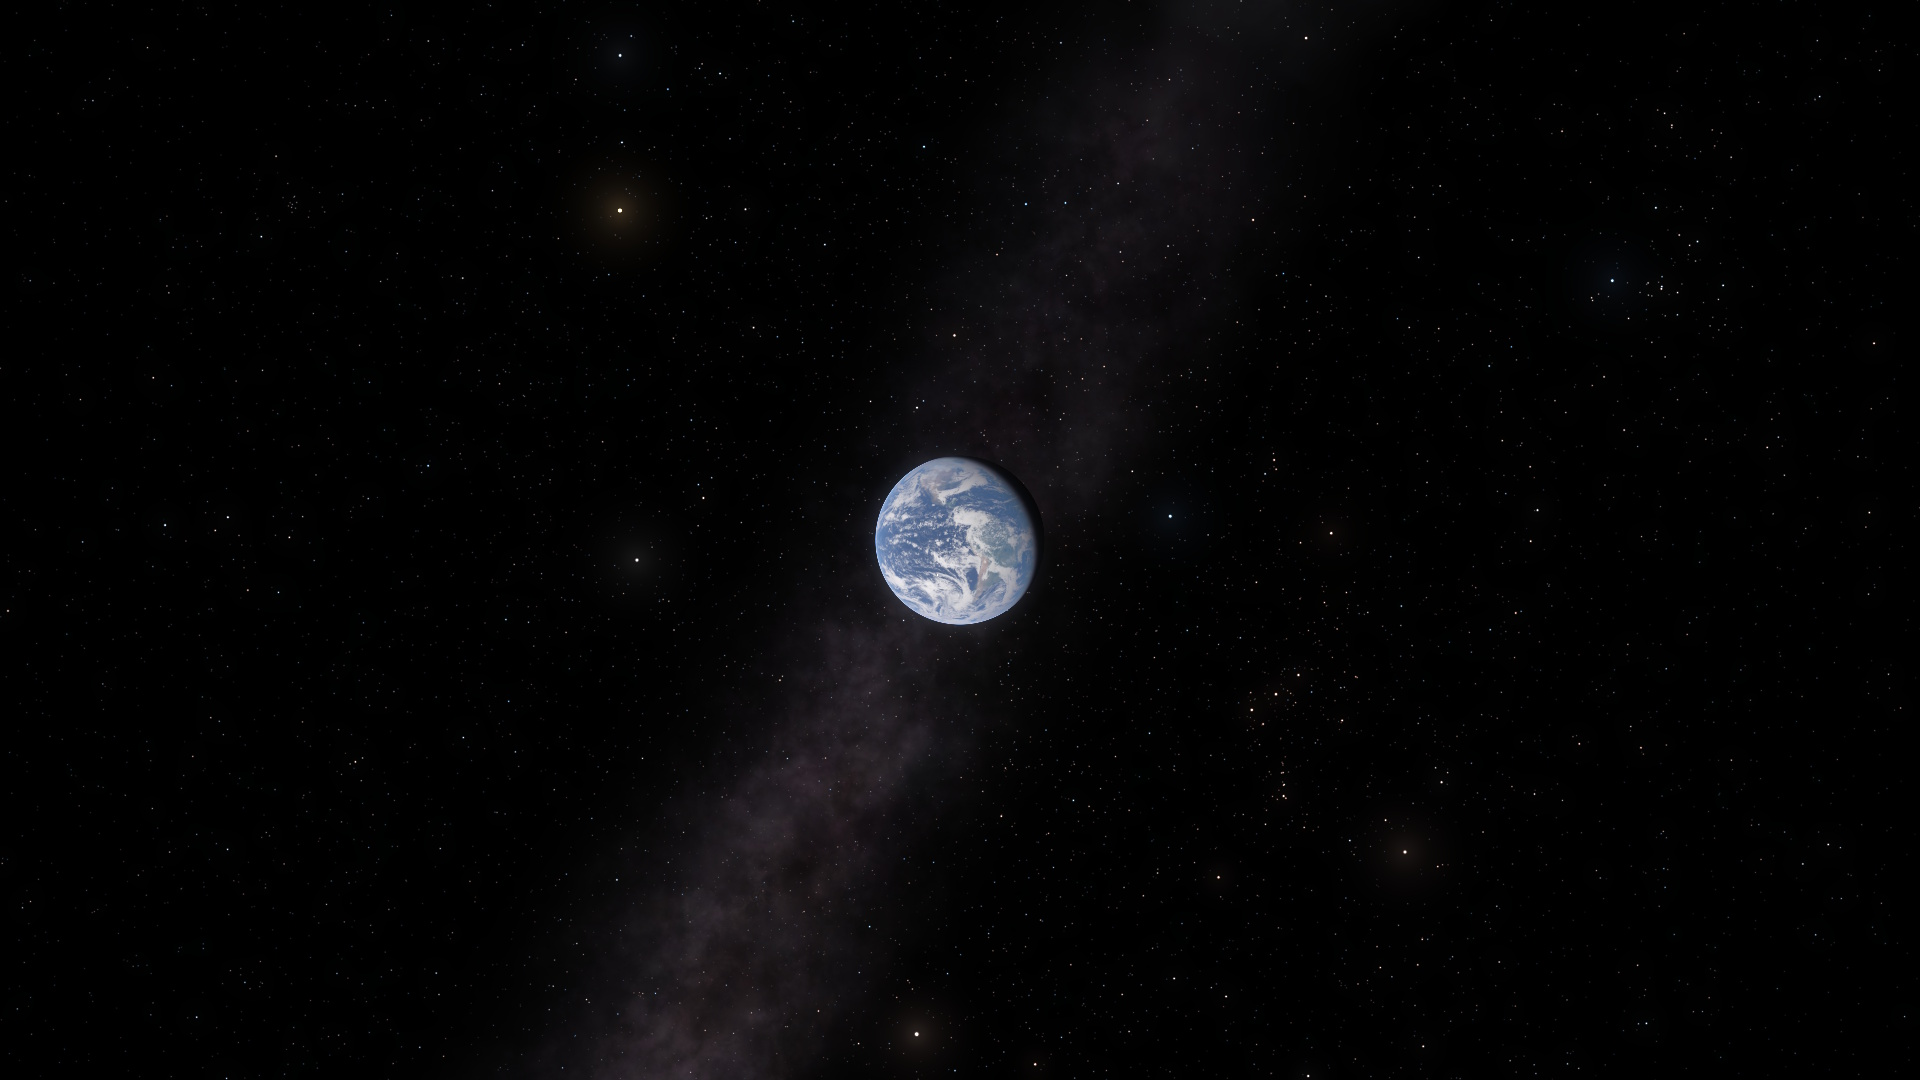
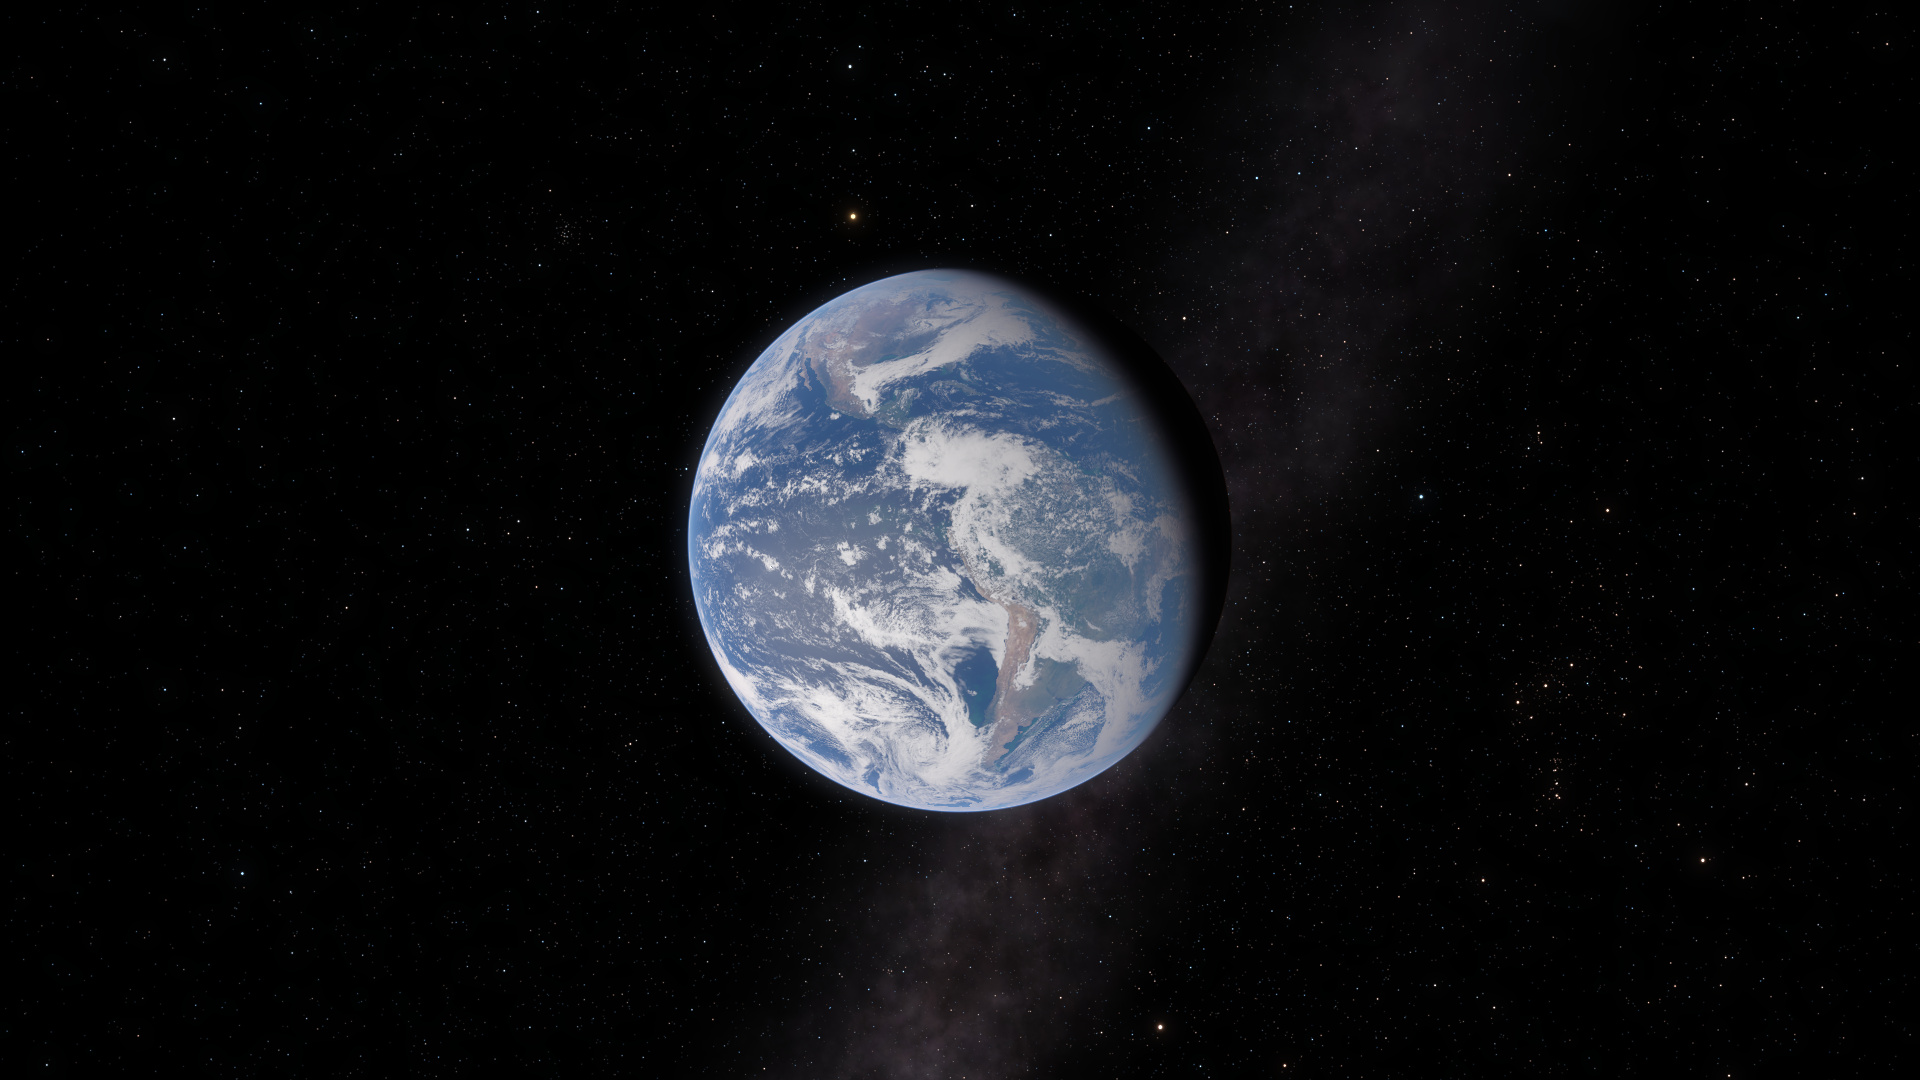
Prepare 1.1.0: new screenshots and GIFs, version and date
The screenshots and GIFs are replaced with ones from this build. The screenshots stay 1920x1080,
as JPEG at quality 95 with full-resolution colour. The GIFs come through the same converter as
1.0.0's, a k-means palette with ordered dither at 960 px and 20 fps. The zoom-out goes at 800 px
and 60 ms frames: at 1.0.0's settings it came to 16 MB, from a longer clip and a Milky Way pan
that redraws a third of the frame. The PNG and MP4 sources stay out of the repository.

diff --git a/CHANGELOG.md b/CHANGELOG.md
@@ -1,6 +1,6 @@
 # Changelog
 
-## 1.1.0 - Unreleased
+## 1.1.0 - 2026-09-26
 
 ### Added
 
